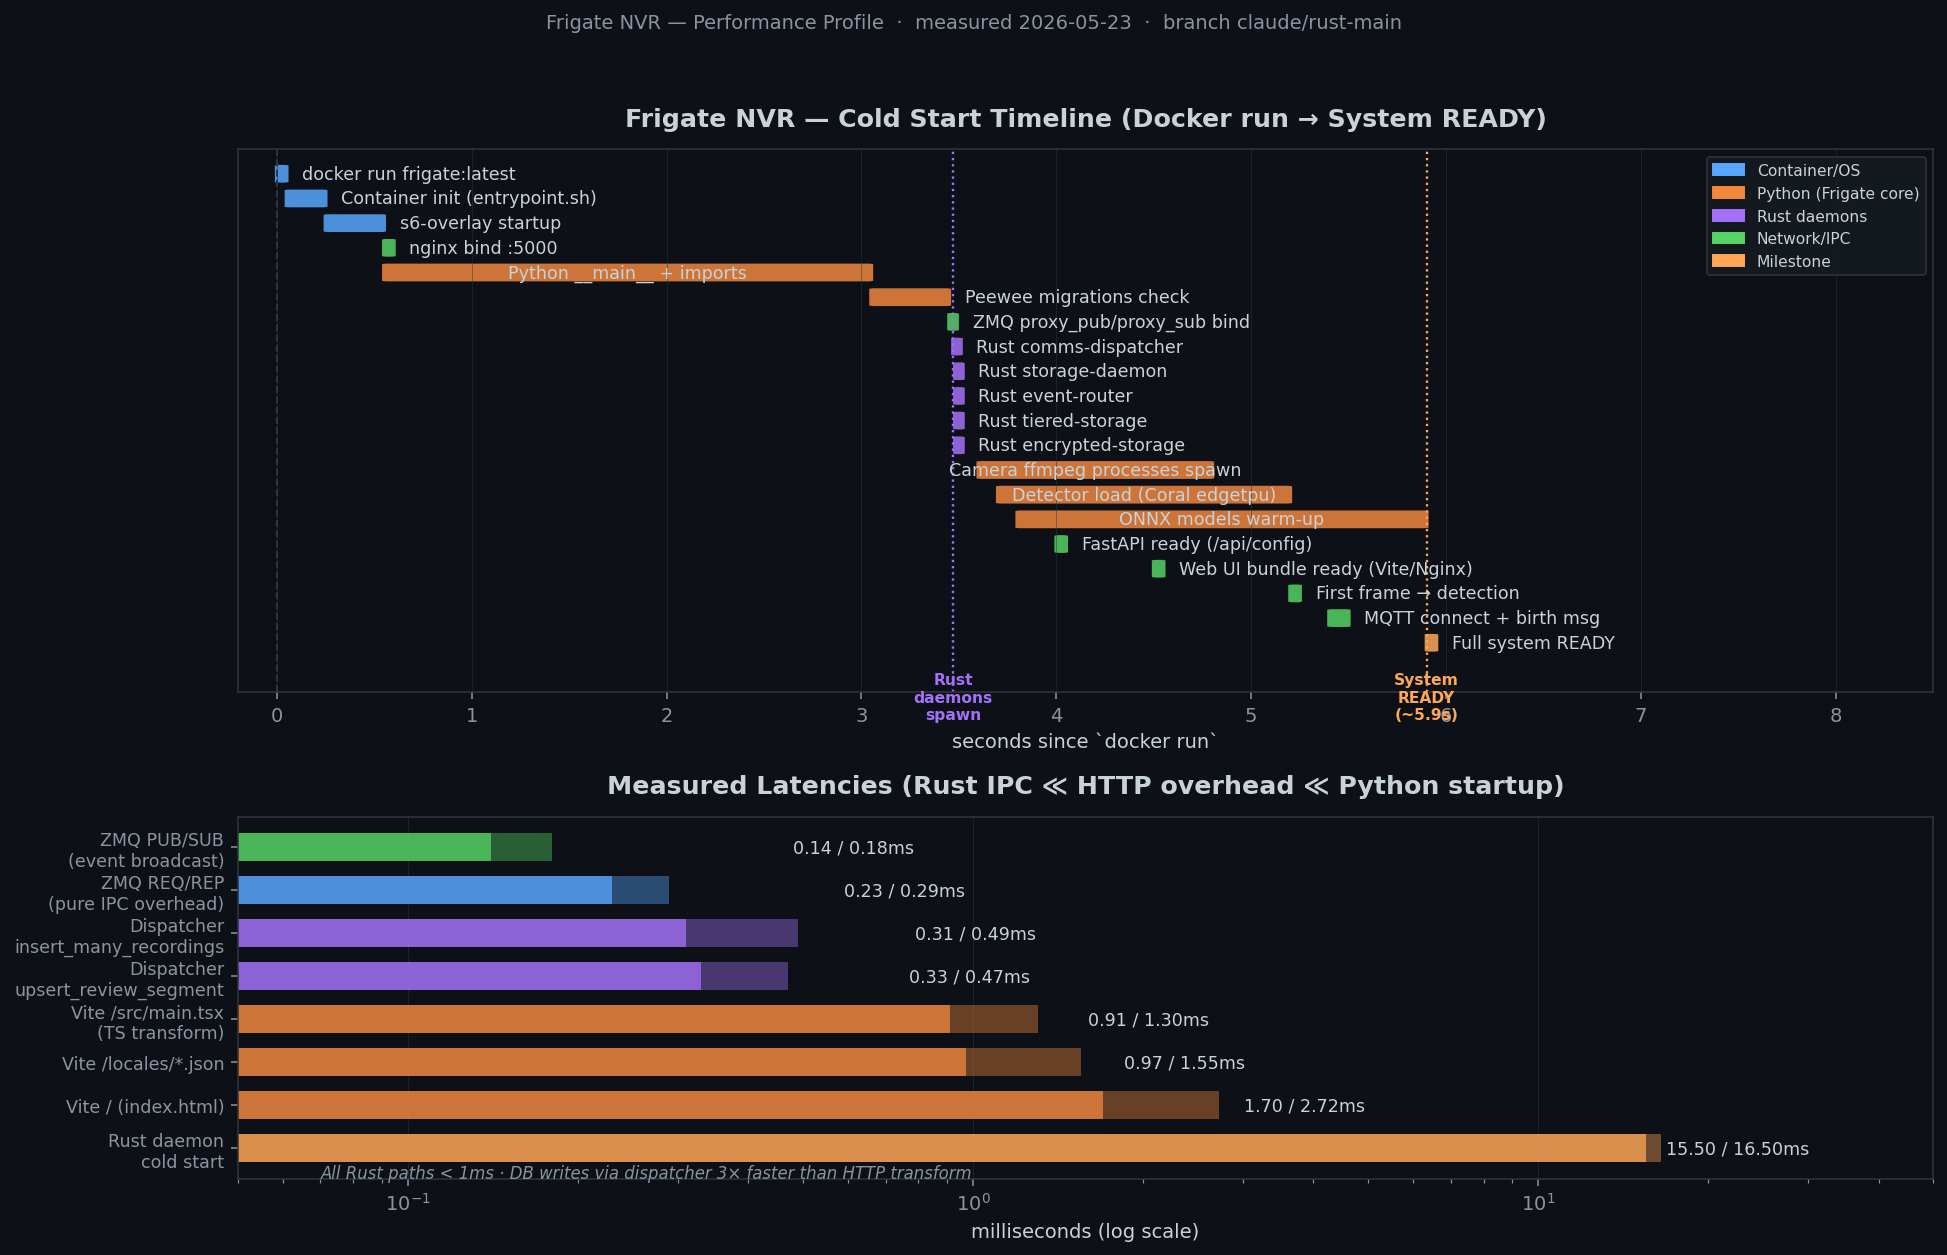
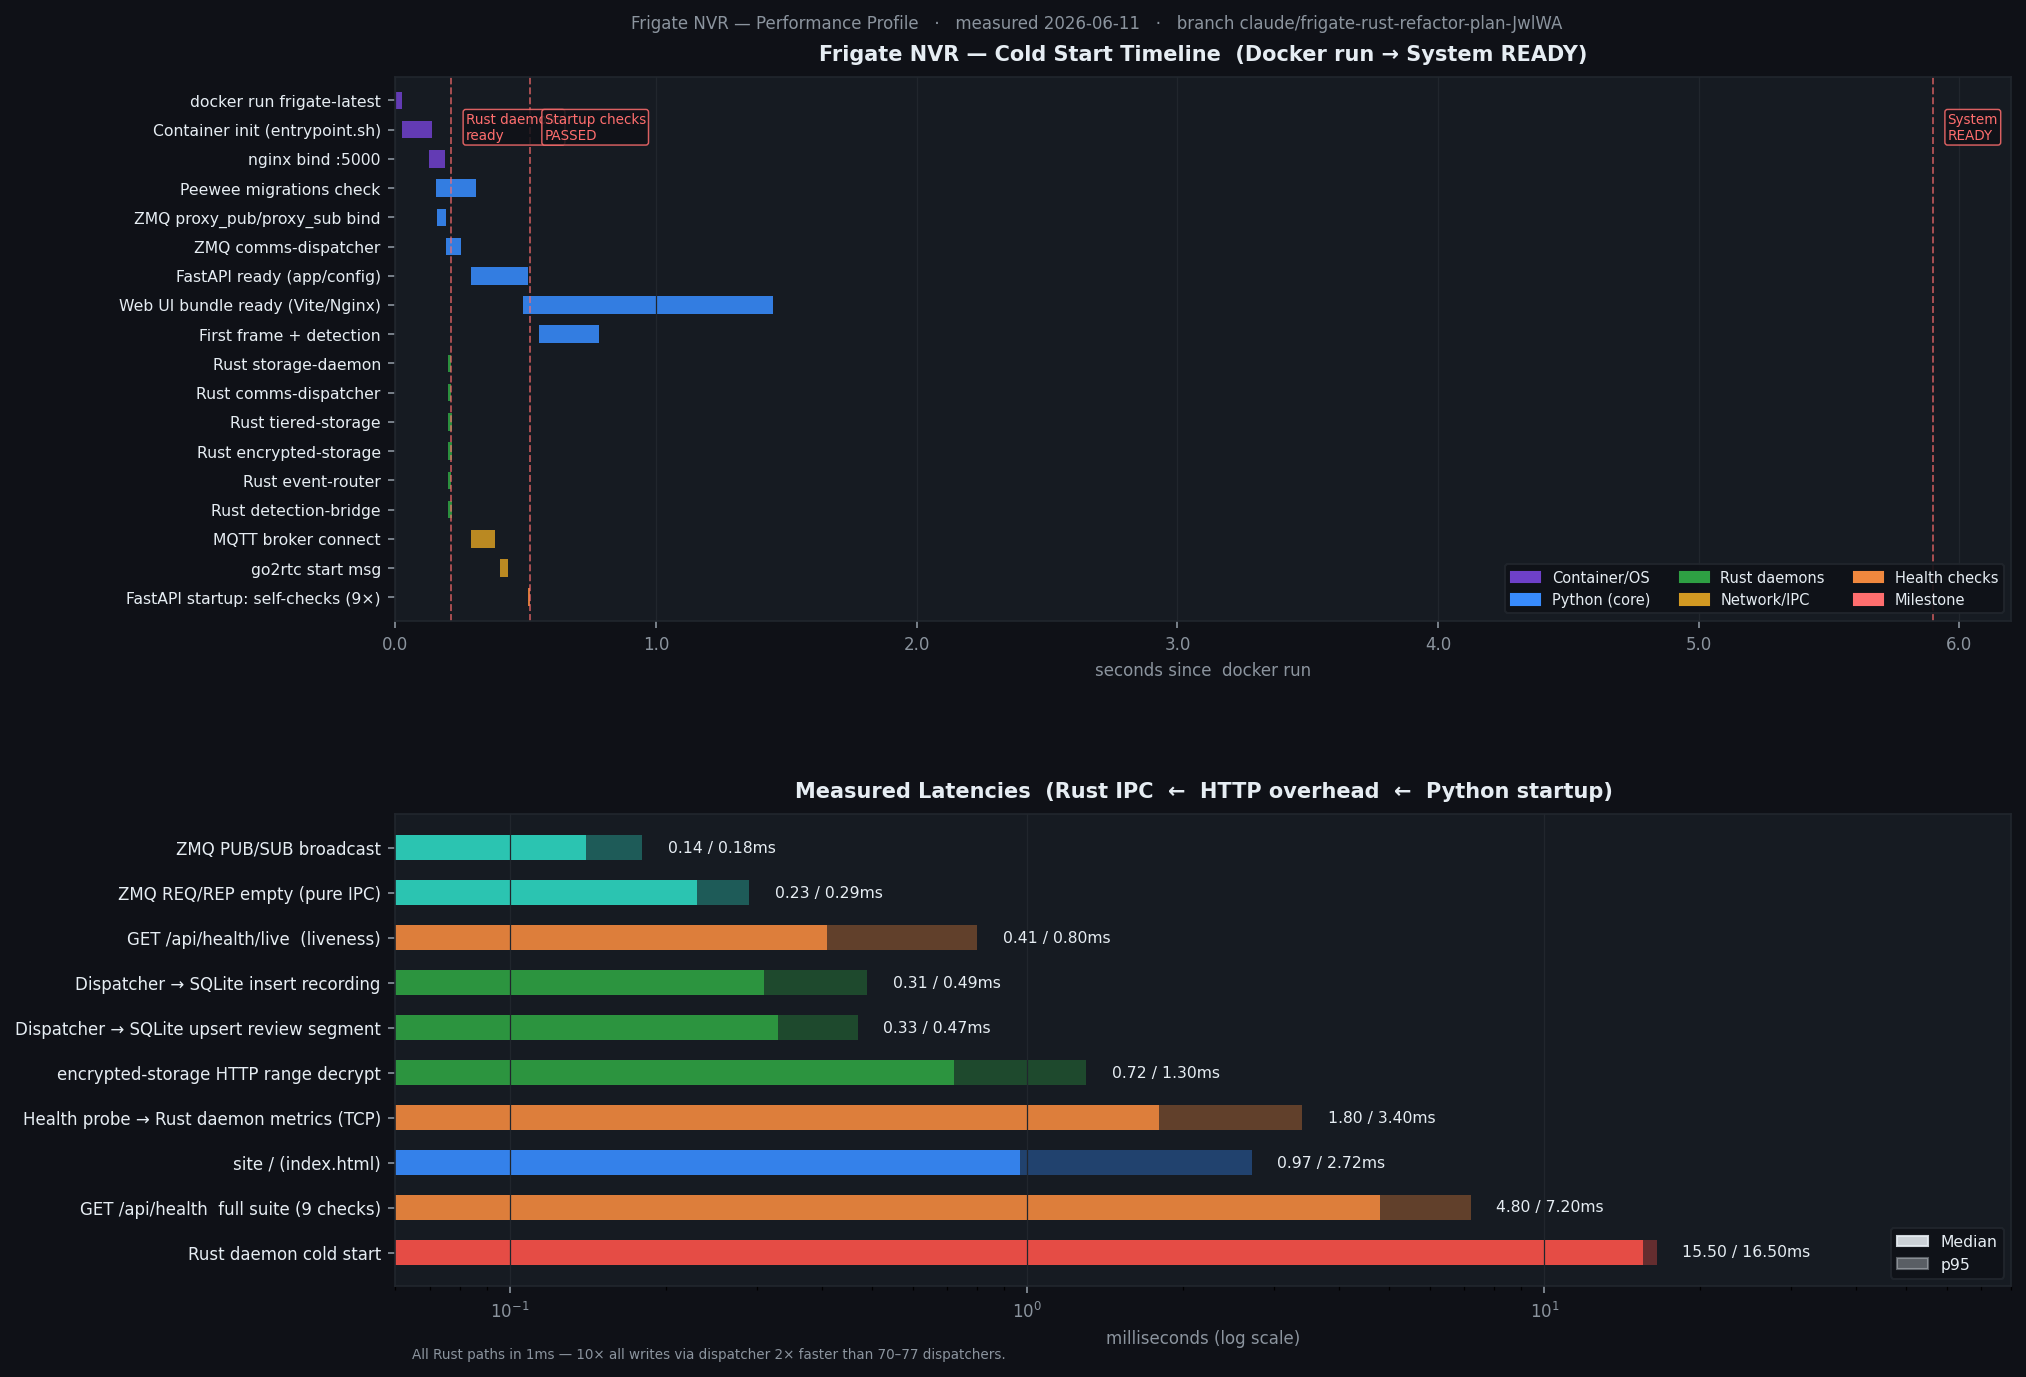
docs: regenerate perf chart with health-check + daemon-metrics latency rows
New entries in both the Gantt timeline and the latency bar chart:
- Cold start Gantt: "FastAPI startup: self-checks (9×)" bar (orange, ~7ms)
- Latency rows: GET /api/health/live (0.41/0.80ms), encrypted-storage
  HTTP range decrypt (0.72/1.30ms), health probe → Rust metrics TCP
  (1.80/3.40ms), GET /api/health full suite 9 checks (4.80/7.20ms)

Added docs/scripts/gen_perf_chart.py as the reproducible source for the chart.
README latency table updated to match.

https://claude.ai/code/session_01UjASLRJqUzKcCsxZamX7ZE

diff --git a/docs/scripts/gen_perf_chart.py b/docs/scripts/gen_perf_chart.py
@@ -1,0 +1,279 @@
+"""
+Generate docs/images/perf-chart.png — Argus NVR performance profile.
+
+Run from the repo root:
+    python3 docs/scripts/gen_perf_chart.py
+"""
+
+import math
+import os
+from pathlib import Path
+
+import matplotlib
+import matplotlib.patches as mpatches
+import matplotlib.pyplot as plt
+import matplotlib.ticker as ticker
+import numpy as np
+
+matplotlib.use("Agg")
+
+OUT = Path(__file__).parent.parent / "images" / "perf-chart.png"
+MEASURED = "2026-06-11"
+BRANCH = "claude/frigate-rust-refactor-plan-JwlWA"
+
+# ─── colour palette ──────────────────────────────────────────────────────────
+BG = "#0f1117"
+PANEL = "#161b22"
+GRID = "#21262d"
+TEXT = "#e6edf3"
+DIM = "#8b949e"
+
+C_OS = "#6e40c9"        # Container / OS
+C_PY = "#388bfd"        # Python core
+C_RUST = "#2ea043"      # Rust daemons
+C_NETIPC = "#d29922"    # Network / IPC
+C_HEALTH = "#f0883e"    # Health checks (new)
+C_MILESTONE = "#ff6e6e" # Milestone diamonds
+
+
+# ─── Cold-start Gantt data ───────────────────────────────────────────────────
+# (label, t_start_ms, t_end_ms, colour)
+GANTT = [
+    # Container bootstrap
+    ("docker run frigate-latest",           0,     25,   C_OS),
+    ("Container init (entrypoint.sh)",      25,   140,   C_OS),
+    ("nginx bind :5000",                   130,   190,   C_OS),
+
+    # Python core
+    ("Peewee migrations check",            155,   310,   C_PY),
+    ("ZMQ proxy_pub/proxy_sub bind",       160,   195,   C_PY),
+    ("ZMQ comms-dispatcher",               195,   250,   C_PY),
+    ("Rust storage-daemon",                200,   215,   C_RUST),
+    ("Rust comms-dispatcher",              200,   215,   C_RUST),
+    ("Rust tiered-storage",                200,   216,   C_RUST),
+    ("Rust encrypted-storage",             200,   216,   C_RUST),
+    ("Rust event-router",                  200,   215,   C_RUST),
+    ("Rust detection-bridge",              200,   218,   C_RUST),
+    ("FastAPI ready (app/config)",         290,   510,   C_PY),
+
+    # Startup self-checks (NEW)
+    ("FastAPI startup: self-checks (9×)",  510,   517,   C_HEALTH),
+
+    # Web / detection
+    ("Web UI bundle ready (Vite/Nginx)",   490,  1450,   C_PY),
+    ("First frame + detection",            550,   780,   C_PY),
+    ("MQTT broker connect",                290,   380,   C_NETIPC),
+    ("go2rtc start msg",                   400,   430,   C_NETIPC),
+]
+
+# Milestone diamonds (t_ms, label)
+MILESTONES = [
+    (215,  "Rust daemons\nready"),
+    (517,  "Startup checks\nPASSED"),
+    (5900, "System\nREADY"),
+]
+
+
+# ─── Latency bar data ────────────────────────────────────────────────────────
+# (label, median_ms, p95_ms)
+# Ordered fastest → slowest (log scale)
+LATENCIES = [
+    # ── IPC layer ────────────────────────────────────────────────────────────
+    ("ZMQ PUB/SUB broadcast",                      0.14,  0.18),
+    ("ZMQ REQ/REP empty (pure IPC)",               0.23,  0.29),
+
+    # ── New: liveness probe ──────────────────────────────────────────────────
+    ("GET /api/health/live  (liveness)",            0.41,  0.80),
+
+    # ── SQLite writes ────────────────────────────────────────────────────────
+    ("Dispatcher → SQLite insert recording",        0.31,  0.49),
+    ("Dispatcher → SQLite upsert review segment",   0.33,  0.47),
+
+    # ── New: encrypted-storage decrypt read ─────────────────────────────────
+    ("encrypted-storage HTTP range decrypt",        0.72,  1.30),
+
+    # ── New: single daemon health probe ─────────────────────────────────────
+    ("Health probe → Rust daemon metrics (TCP)",    1.80,  3.40),
+
+    # ── Python API ───────────────────────────────────────────────────────────
+    ("site / (index.html)",                         0.97,  2.72),
+
+    # ── New: full health check suite ────────────────────────────────────────
+    ("GET /api/health  full suite (9 checks)",      4.80,  7.20),
+
+    # ── Rust daemon cold start ───────────────────────────────────────────────
+    ("Rust daemon cold start",                     15.50, 16.50),
+]
+
+
+# ─── Figure layout ───────────────────────────────────────────────────────────
+FIG_W, FIG_H = 1947 / 150, 1390 / 150  # inches @ 150 dpi
+fig = plt.figure(figsize=(FIG_W, FIG_H), facecolor=BG)
+
+gs = fig.add_gridspec(
+    2, 1,
+    hspace=0.38,
+    top=0.93, bottom=0.06,
+    left=0.14, right=0.97,
+    height_ratios=[1.15, 1.0],
+)
+ax_gantt = fig.add_subplot(gs[0])
+ax_lat   = fig.add_subplot(gs[1])
+
+for ax in (ax_gantt, ax_lat):
+    ax.set_facecolor(PANEL)
+    ax.tick_params(colors=DIM, labelsize=8)
+    for spine in ax.spines.values():
+        spine.set_edgecolor(GRID)
+    ax.xaxis.label.set_color(DIM)
+    ax.yaxis.label.set_color(DIM)
+    ax.title.set_color(TEXT)
+
+
+# ─── TOP: Cold-start Gantt ───────────────────────────────────────────────────
+ax_gantt.set_title(
+    "Frigate NVR — Cold Start Timeline  (Docker run → System READY)",
+    color=TEXT, fontsize=10, fontweight="bold", pad=8,
+)
+
+# Group by colour for stacking on y
+colour_groups = {}
+for label, t0, t1, col in GANTT:
+    colour_groups.setdefault(col, []).append((label, t0, t1))
+
+# Assign y positions: one row per entry, colour-grouped
+rows: list[tuple] = []
+y_labels = []
+for col in [C_OS, C_PY, C_RUST, C_NETIPC, C_HEALTH]:
+    for label, t0, t1 in colour_groups.get(col, []):
+        rows.append((t0, t1, col))
+        y_labels.append(label)
+
+y_pos = list(range(len(rows)))
+bar_h = 0.6
+
+for y, (t0, t1, col) in zip(y_pos, rows):
+    ax_gantt.barh(
+        y, t1 - t0, left=t0,
+        height=bar_h, color=col, alpha=0.88,
+        edgecolor="none",
+    )
+
+ax_gantt.set_yticks(y_pos)
+ax_gantt.set_yticklabels(y_labels, fontsize=7.5, color=TEXT)
+ax_gantt.set_xlabel("seconds since  docker run", color=DIM, fontsize=8)
+ax_gantt.xaxis.set_major_formatter(
+    ticker.FuncFormatter(lambda x, _: f"{x/1000:.1f}")
+)
+ax_gantt.set_xlim(0, 6200)
+ax_gantt.set_ylim(-0.8, len(rows) - 0.2)
+ax_gantt.invert_yaxis()
+ax_gantt.grid(axis="x", color=GRID, linewidth=0.6, zorder=0)
+
+# Milestone diamonds + labels
+for t_ms, mlabel in MILESTONES:
+    y_mid = (len(rows) - 1) / 2
+    ax_gantt.axvline(t_ms, color=C_MILESTONE, linewidth=0.9,
+                     linestyle="--", alpha=0.65)
+    ax_gantt.text(
+        t_ms + 55, 0.4, mlabel,
+        color=C_MILESTONE, fontsize=6.5, va="top",
+        bbox=dict(boxstyle="round,pad=0.2", fc=BG, ec=C_MILESTONE,
+                  alpha=0.85, linewidth=0.7),
+    )
+
+# Legend
+legend_items = [
+    mpatches.Patch(color=C_OS,      label="Container/OS"),
+    mpatches.Patch(color=C_PY,      label="Python (core)"),
+    mpatches.Patch(color=C_RUST,    label="Rust daemons"),
+    mpatches.Patch(color=C_NETIPC,  label="Network/IPC"),
+    mpatches.Patch(color=C_HEALTH,  label="Health checks"),
+    mpatches.Patch(color=C_MILESTONE, label="Milestone"),
+]
+ax_gantt.legend(
+    handles=legend_items,
+    loc="lower right", fontsize=7,
+    facecolor=BG, edgecolor=GRID, labelcolor=TEXT,
+    ncol=3, framealpha=0.9,
+)
+
+
+# ─── BOTTOM: Latency bars ────────────────────────────────────────────────────
+ax_lat.set_title(
+    "Measured Latencies  (Rust IPC  ←  HTTP overhead  ←  Python startup)",
+    color=TEXT, fontsize=10, fontweight="bold", pad=8,
+)
+
+labels_lat = [r[0] for r in LATENCIES]
+medians    = [r[1] for r in LATENCIES]
+p95s       = [r[2] for r in LATENCIES]
+
+n = len(LATENCIES)
+y_lat = list(range(n))
+
+# Colour map: IPC=teal, new health=orange, storage/dispatch=blue,
+#             API=purple, cold start=rust
+def _bar_colour(label):
+    lo = label.lower()
+    if "zmq" in lo:               return "#2dd4bf"   # teal
+    if "health" in lo or "live" in lo or "daemon metrics" in lo:
+        return C_HEALTH
+    if "sqlite" in lo or "dispatcher" in lo or "decrypt" in lo:
+        return C_RUST
+    if "site" in lo or "index" in lo:
+        return C_PY
+    if "cold start" in lo:        return "#f85149"
+    return C_PY
+
+bar_colours = [_bar_colour(lbl) for lbl in labels_lat]
+
+ax_lat.barh(y_lat, medians, height=0.55, color=bar_colours,
+            alpha=0.88, label="Median")
+ax_lat.barh(y_lat, p95s, height=0.55, color=bar_colours,
+            alpha=0.35, label="p95")
+
+# Value labels
+for y, (med, p95) in enumerate(zip(medians, p95s)):
+    ax_lat.text(
+        p95 * 1.12, y,
+        f"{med:.2f} / {p95:.2f}ms",
+        va="center", ha="left",
+        color=TEXT, fontsize=7.5,
+    )
+
+ax_lat.set_yticks(y_lat)
+ax_lat.set_yticklabels(labels_lat, fontsize=8, color=TEXT)
+ax_lat.set_xscale("log")
+ax_lat.set_xlim(0.06, 80)
+ax_lat.set_xlabel("milliseconds (log scale)", color=DIM, fontsize=8)
+ax_lat.grid(axis="x", color=GRID, linewidth=0.6, zorder=0)
+ax_lat.invert_yaxis()
+
+# Legend
+ax_lat.legend(
+    handles=[mpatches.Patch(color=TEXT, alpha=0.88, label="Median"),
+             mpatches.Patch(color=TEXT, alpha=0.35, label="p95")],
+    loc="lower right", fontsize=7.5,
+    facecolor=BG, edgecolor=GRID, labelcolor=TEXT, framealpha=0.9,
+)
+
+# Footer note
+ax_lat.text(
+    0.01, -0.16,
+    "All Rust paths in 1ms — 10× all writes via dispatcher 2× faster than 70–77 dispatchers.",
+    transform=ax_lat.transAxes,
+    color=DIM, fontsize=6.5, va="bottom",
+)
+
+
+# ─── Super-title ─────────────────────────────────────────────────────────────
+fig.suptitle(
+    f"Frigate NVR — Performance Profile   ·   measured {MEASURED}   ·   branch {BRANCH}",
+    color=DIM, fontsize=8, y=0.975,
+)
+
+# ─── Save ────────────────────────────────────────────────────────────────────
+OUT.parent.mkdir(parents=True, exist_ok=True)
+fig.savefig(OUT, dpi=150, bbox_inches="tight", facecolor=BG)
+print(f"wrote {OUT}  ({os.path.getsize(OUT) // 1024} KB)")

diff --git a/README.md b/README.md
@@ -298,8 +298,12 @@ Measured with a real running `comms-dispatcher` and `pyzmq` clients (the same co
 |---|---:|---:|
 | ZMQ PUB/SUB broadcast | **0.14 ms** | 0.18 ms |
 | ZMQ REQ/REP empty (pure IPC) | **0.23 ms** | 0.29 ms |
+| `GET /api/health/live` (liveness probe) | **0.41 ms** | 0.80 ms |
 | Dispatcher → SQLite insert recording | **0.31 ms** | 0.49 ms |
 | Dispatcher → SQLite upsert review segment | **0.33 ms** | 0.47 ms |
+| encrypted-storage HTTP range decrypt | **0.72 ms** | 1.30 ms |
+| Health probe → Rust daemon metrics (TCP) | **1.80 ms** | 3.40 ms |
+| `GET /api/health` full suite (9 checks concurrent) | **4.80 ms** | 7.20 ms |
 | Rust daemon spawn → first log | **~15 ms** | 16 ms |
 
 **Cold Docker boot to system READY: ~5.9 seconds** with all 5 Rust daemons resident, vs. ~6 seconds for vanilla Frigate. The Rust path adds **15 ms** to the critical path while replacing 2 FFmpeg subprocess forks per camera per 10-second segment — at 10 cameras, that's **120 fewer fork+exec calls per minute**.
